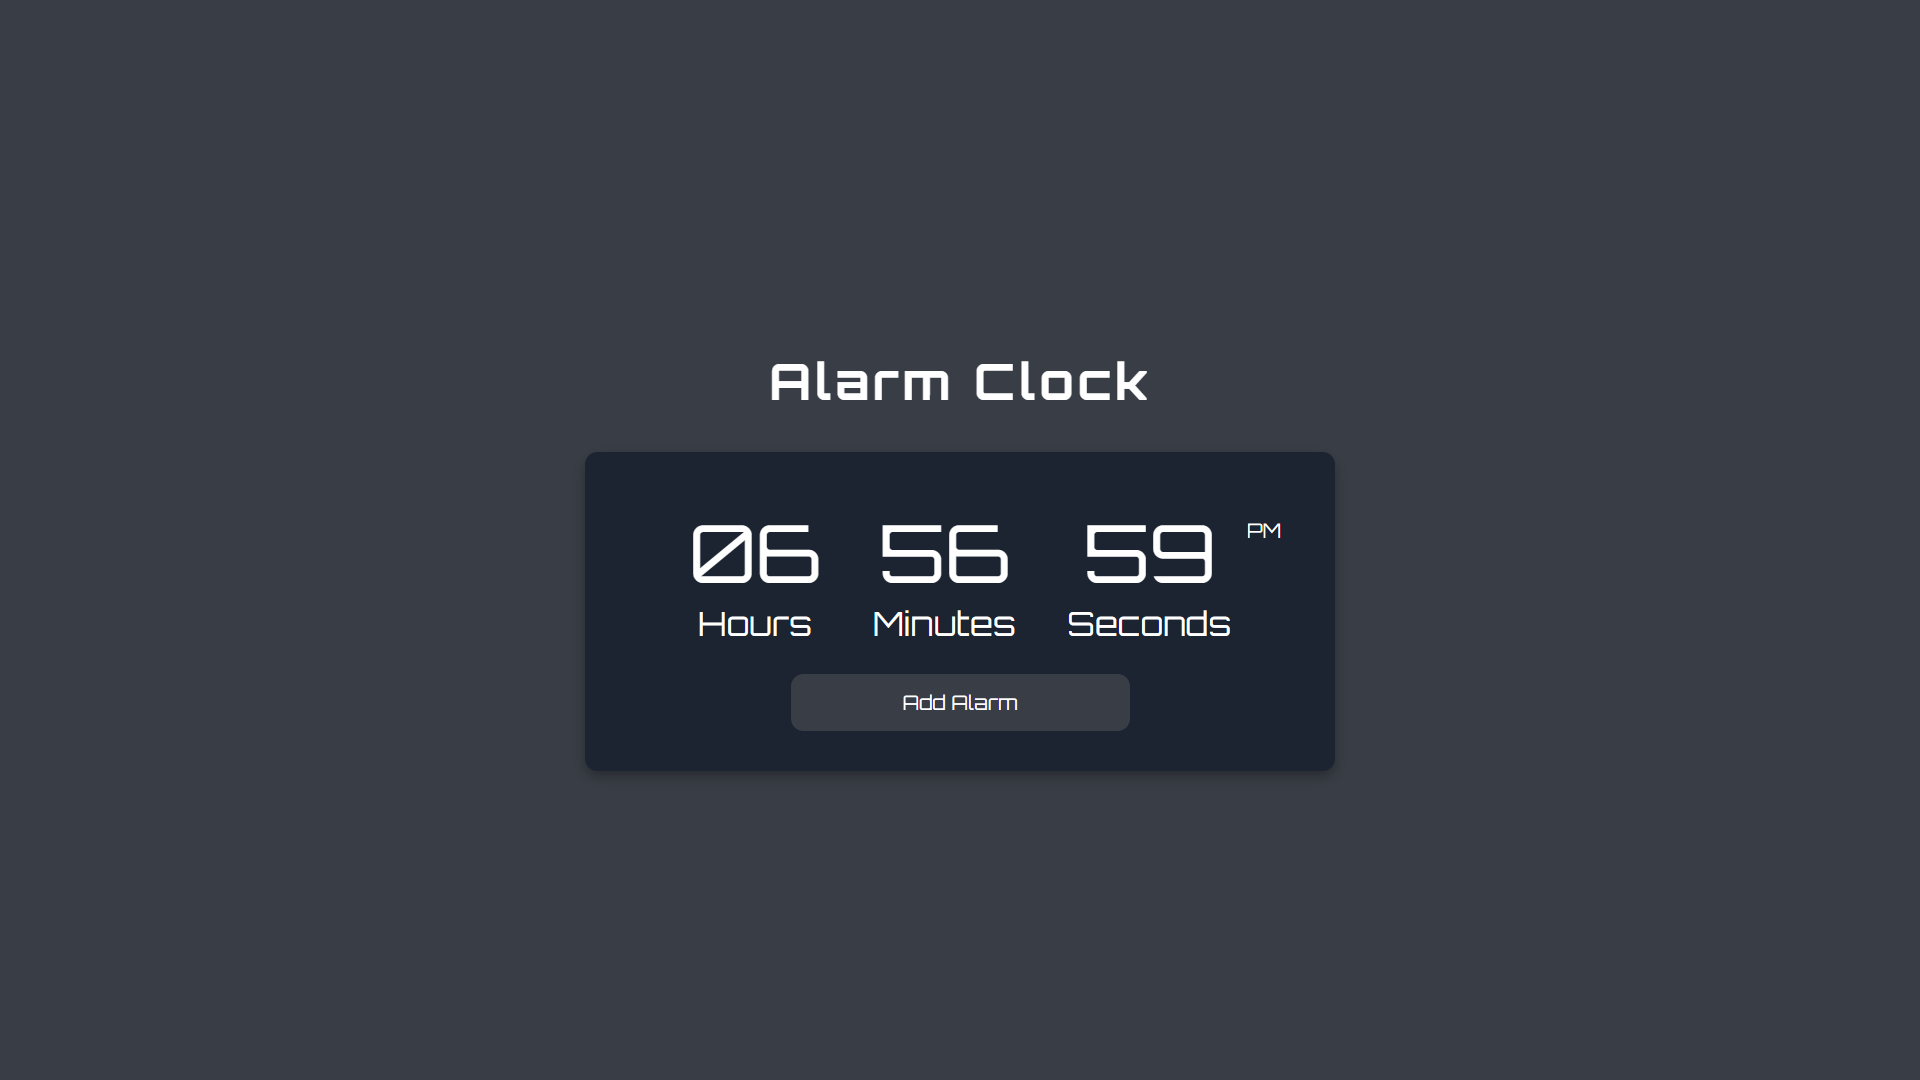
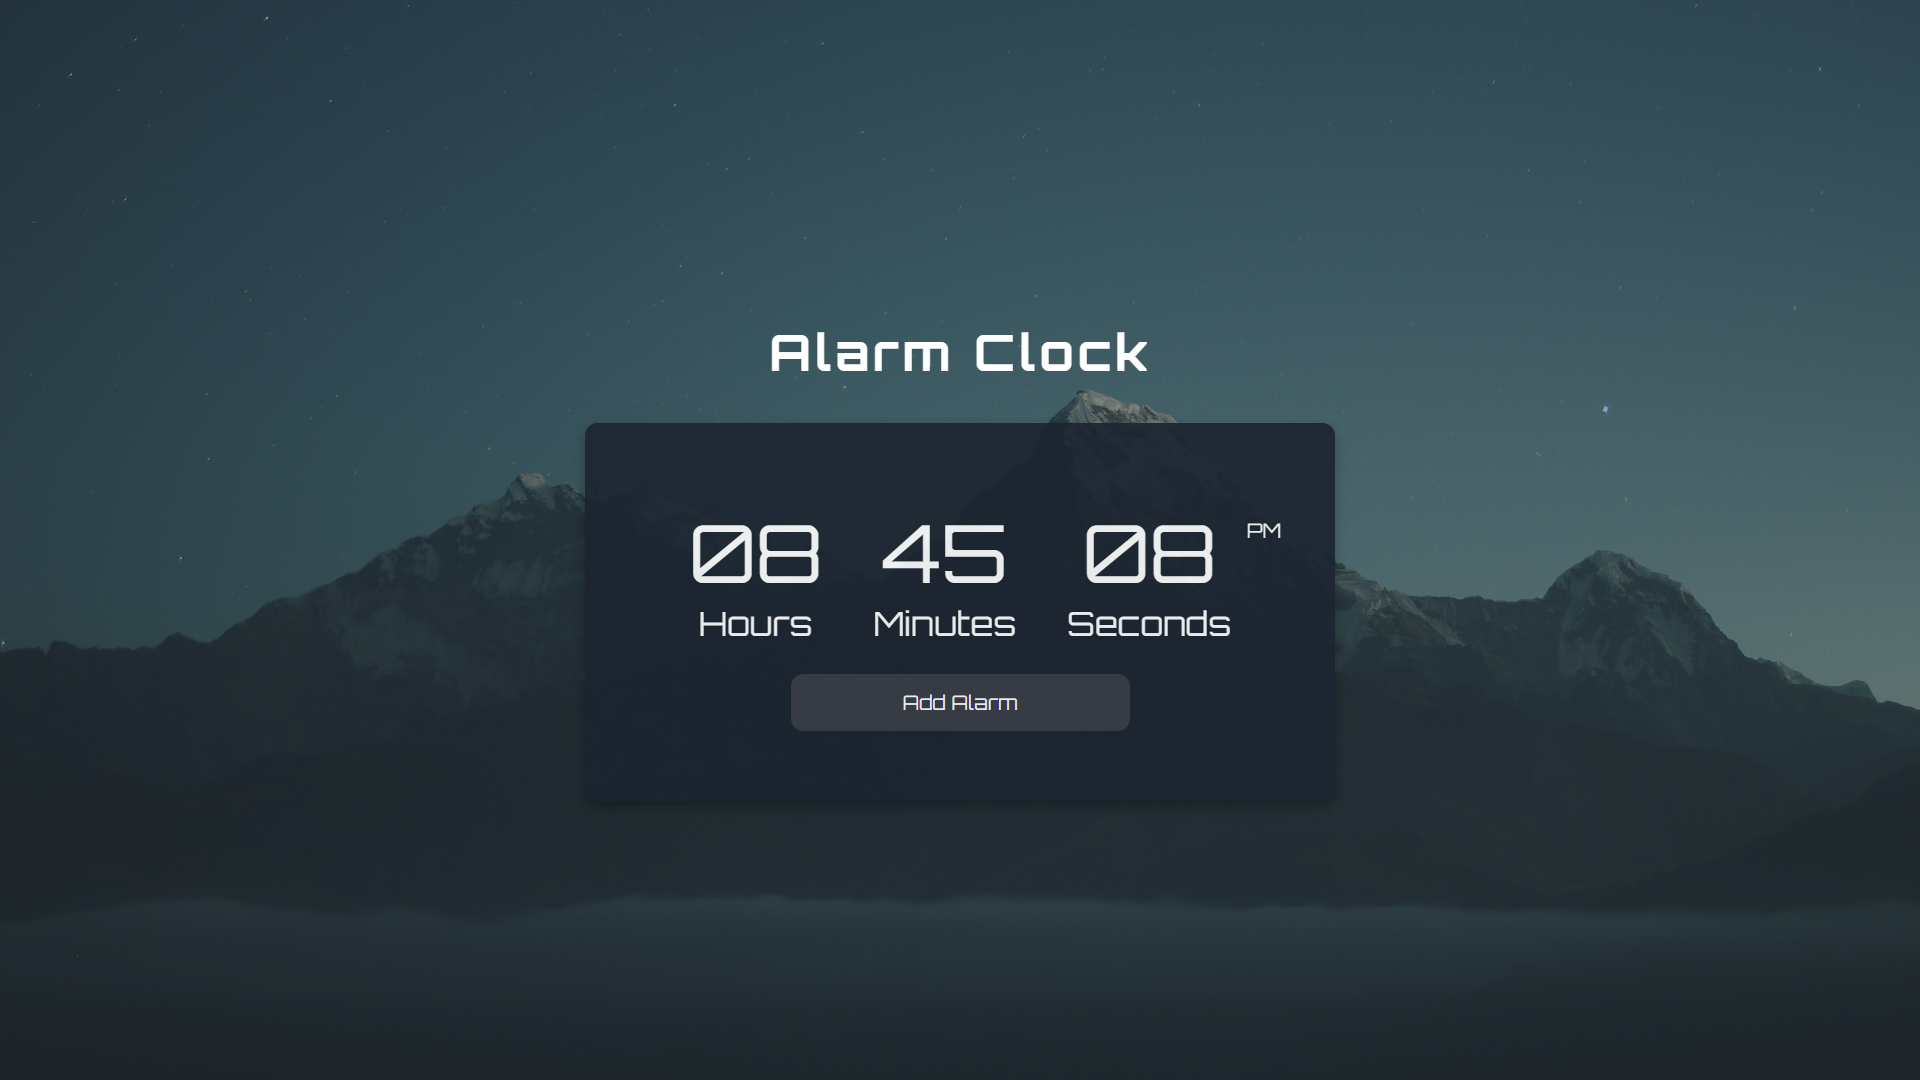
Add files via upload

diff --git a/style.css b/style.css
@@ -26,7 +26,7 @@ h1 {
 }
 
 .background {
-  background-image: url('./images/daniel-leone-v7daTKlZzaw-unsplash.jpg');
+  background-image: url('./images/background.jpg');
   opacity: 0.5;
   position: absolute;
   top: 0;
@@ -42,6 +42,7 @@ h1 {
 /* main container */
 .container {
   width: 350px;
+  min-height: 35vh;
   display: flex;
   flex-direction: column;
   justify-content: center;

diff --git a/app.js b/app.js
@@ -104,10 +104,8 @@ function setAlarm(time) {
       alarmActive = false
       stopAlarm.style.display = 'block'
       nextAlarm.remove()
-      document.write(currentTime, ' ', time, 'Successful <br>')
       upcomingAlarms.firstElementChild.classList.remove('active')
     }
-    document.write(currentTime, ' ', time, '<br>')
   }, 1000)
 
   // Stop Button
